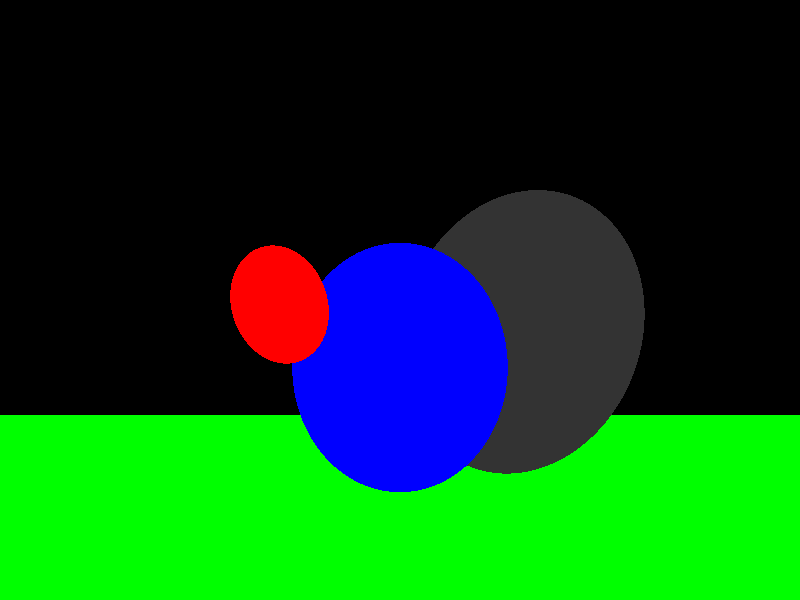
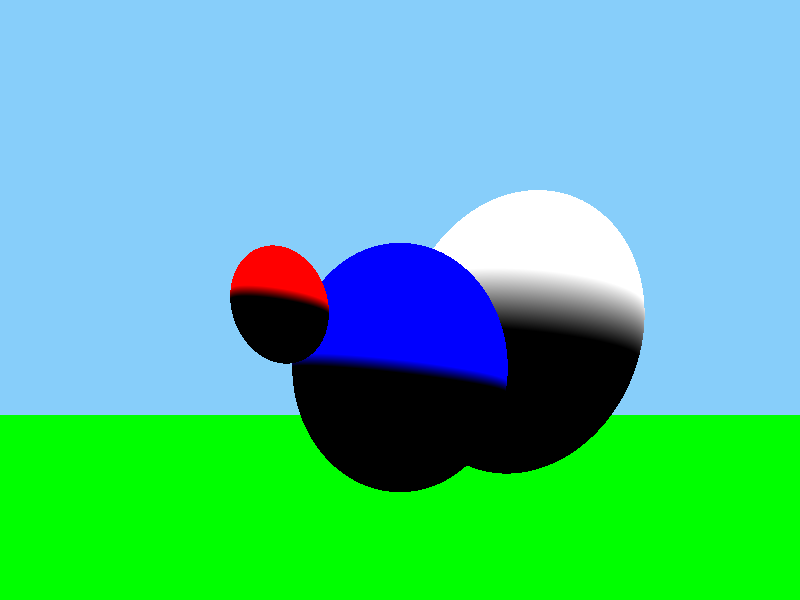
Added simple shadows

diff --git a/src/scene/renderer.rs b/src/scene/renderer.rs
@@ -1,6 +1,6 @@
-use super::super::scene::{Camera, Document};
+use super::super::scene::{Camera, Document, SceneObject, Color};
 use super::super::geometry::{Ray, Vector3};
-use super::super::traits::{RayCast, RayIntersectionResult};
+use super::super::traits::{RayCast, RayIntersectionResult, RayIntersection};
 use image::{DynamicImage, Rgba, GenericImage};
 
 #[derive(Debug)]
@@ -32,12 +32,15 @@ impl Renderer {
 
         // Lets do this real slow
         let mut image = DynamicImage::new_rgb8(self.width, self.height);
-        let black = image::Rgba([0, 0, 0, 0]);
-        let red = image::Rgba([0, 254, 0, 0]);
+        let black = image::Rgba([135, 206, 250, 0]);
 
         let pixel_scale = self.pixel_scale();
         let aspect_ratio = self.aspect_ratio();
         let camera_origin = camera.get_origin();
+
+        let direction_to_light = Vector3::new_from_values(-0.1, 0.0, -1.0);
+
+        let mut closest_scene_object: &SceneObject = &SceneObject::new();
 
         for x in 0..self.width {
             for y in 0..self.height {
@@ -55,23 +58,38 @@ impl Renderer {
                 let ray = Ray::new_from_vectors(&camera_origin, &direction);
 
                 // iterate over all document objects and intersect
-                image.put_pixel(x, y, black);
                 let mut distance_to_camera = 1000000.0_f64;
+                let mut object_found = false;
+                let mut color = Color::black();
                 for object_reference in document.object_table.objects.iter() {
                     match object_reference.object.intersect_ray(&ray) {
                         RayIntersectionResult::None => (),
-                        RayIntersectionResult::Some(v_int) => {
+                        RayIntersectionResult::Some(int) => {
                             // test if closest to camera
-                            let distance = v_int.distance_to_squared(&camera_origin);
+                            let distance = int.point.distance_to_squared(&camera_origin);
                             if distance < distance_to_camera {
                                 distance_to_camera = distance;
-                                let color = &object_reference.material.color;
-                                let color_rgba = image::Rgba([(color.red * 255.0) as u8, (color.green * 255.0) as u8, (color.blue * 255.0) as u8, 0]);
-                                image.put_pixel(x, y, color_rgba)
+                                closest_scene_object = object_reference;
+                                object_found = true;
+
+                                let intensity = document.light_table.get_intensity(0);
+                                let light_power = (int.normal.dot_product(&(direction_to_light * -1.0))).max(0.0) * intensity;
+                                let light_reflected = closest_scene_object.material.albedo / std::f64::consts::PI;
+                                color = &(&(&closest_scene_object.material.color * document.light_table.get_color(0)) * light_power) * light_reflected;
+                                color = color.clamp();
                             }
                         }
                     }
                 }
+
+                if object_found {
+                    let color_rgba = image::Rgba([(color.red * 255.0) as u8, (color.green * 255.0) as u8, (color.blue * 255.0) as u8, 0]);
+                    image.put_pixel(x, y, color_rgba)
+                }
+                else {
+                    image.put_pixel(x, y, black);
+                }
+
             }
         }
 

diff --git a/src/scene/document.rs b/src/scene/document.rs
@@ -60,6 +60,20 @@ impl LightTable {
     pub fn push_light(&mut self, light: Light) {
         self.lights.push(light)
     }
+
+    pub fn get_intensity(&self, index: usize) -> f64 {
+        match &self.lights[index] {
+            Light::Directional(l) => l.intensity,
+            Light::Point(l) => l.intensity
+        }
+    }
+
+    pub fn get_color(&self, index: usize) -> &Color {
+        match &self.lights[index] {
+            Light::Directional(l) => &l.color,
+            Light::Point(l) => &l.color,
+        }
+    }
 }
 
 pub struct Document {
@@ -75,16 +89,16 @@ impl Document {
         object_table.push_object(SceneObject::new_from_object(Box::new(sphere)));
 
         let sphere1 = Sphere::new_from_values(&Vector3::new_from_values(-0.5, 2.5, 1.0), 0.2);
-        let material = Material{color: Color::red()};
+        let material = Material{color: Color::red(), albedo: 20.0};
         object_table.push_object(SceneObject::new_with_material(Box::new(sphere1), material));
 
         let sphere2 = Sphere::new_from_values(&Vector3::new_from_values(0.0, 3.75, 0.8), 0.7);
-        let material = Material{color: Color::blue()};
+        let material = Material{color: Color::blue(), albedo: 40.0};
         object_table.push_object(SceneObject::new_with_material(Box::new(sphere2), material));
 
         let mut plane = Plane::world_xy();
-        plane.origin = Vector3::new_from_values(0.0, 0.0, 0.0);
-        let plane_material = Material{color: Color::green()};
+        plane.origin = Vector3::new_from_values(0.0, 0.0, 0.1);
+        let plane_material = Material{color: Color::green(), albedo: 80.0};
         object_table.push_object(SceneObject::new_with_material(Box::new(plane), plane_material));
 
         let camera = Camera::new_from_position_and_target(&Vector3::new_from_values(0.0, 0.0, 0.6), &Vector3::new_from_values(0.0, 0.6, 0.3));

diff --git a/src/geometry/sphere.rs b/src/geometry/sphere.rs
@@ -1,5 +1,5 @@
 use super::super::geometry::{Vector3, Ray};
-use super::super::traits::{RayCast, RayIntersectionResult};
+use super::super::traits::{RayCast, RayIntersectionResult, RayIntersection};
 use super::super::scene::{Color};
 use std::cmp::Ordering;
 
@@ -26,6 +26,10 @@ impl Sphere {
             color: Color::red()
         }
     }
+
+    pub fn normal_at(&self, vector: &Vector3) -> Vector3 {
+        (vector - &self.origin).as_normalized()
+    }
 }
 
 impl RayCast for Sphere {
@@ -37,11 +41,16 @@ impl RayCast for Sphere {
 
         match distance_to_ray.partial_cmp(&self.radius).expect("No NAN please :/") {
             Ordering::Greater => RayIntersectionResult::None,
-            Ordering::Equal => RayIntersectionResult::Some(origin_projected),
+            Ordering::Equal =>{
+                let ray_int = RayIntersection::new_from_point_and_normal(&origin_projected, &self.normal_at(&origin_projected));
+                RayIntersectionResult::Some(ray_int)
+            },
             Ordering::Less => {
                 let len_ray_origin_to_intersection = origin_projected.distance_to(&ray.origin) - (self.radius * self.radius - distance_to_ray * distance_to_ray).sqrt();
                 println!("len_ray_to_int is: {}", len_ray_origin_to_intersection);
-                RayIntersectionResult::Some(ray.vec_at_length(len_ray_origin_to_intersection))
+                let int = ray.vec_at_length(len_ray_origin_to_intersection);
+                let ray_int = RayIntersection::new_from_point_and_normal(&int, &self.normal_at(&int));
+                RayIntersectionResult::Some(ray_int)
             }
         }
     }

diff --git a/src/scene/color.rs b/src/scene/color.rs
@@ -1,3 +1,4 @@
+use std::ops;
 
 // TODO: This should rather be a material struct
 #[derive(Debug)]
@@ -8,6 +9,11 @@ pub struct Color {
 }
 
 impl Color {
+
+    pub const fn black() -> Color {
+        Color {red: 0.0, green: 0.0, blue: 0.0}
+    }
+
     pub const fn red() -> Color {
         Color {red: 1.0, green: 0.0, blue: 0.0}
     }
@@ -18,5 +24,38 @@ impl Color {
 
     pub const fn green() -> Color {
         Color {red: 0.0, green: 1.0, blue: 0.0}
+    }
+
+    pub fn clamp(&self) -> Color {
+        Color {
+            red: self.red.min(1.0).max(0.0),
+            blue: self.blue.min(1.0).max(0.0),
+            green: self.green.min(1.0).max(0.0),
+        }
+    }
+}
+
+
+impl ops::Mul<&Color> for &Color {
+    type Output = Color;
+
+    fn mul(self, other: &Color) -> Color {
+        Color {
+            red: self.red * other.red,
+            green: self.green * other.green,
+            blue: self.blue * other.blue,
+        }
+    }
+}
+
+impl ops::Mul<f64> for &Color {
+    type Output = Color;
+
+    fn mul(self, rhs: f64) -> Color {
+        Color {
+            red: self.red * rhs,
+            green: self.green * rhs,
+            blue: self.blue * rhs,
+        }
     }
 }

diff --git a/src/tests/mod.rs b/src/tests/mod.rs
@@ -102,10 +102,22 @@ mod plane_tests {
         // Assert
         match int {
             RayIntersectionResult::None => panic!("No intersection found!"),
-            RayIntersectionResult::Some(v_int) => {
-                assert_eq!(v_int, Vector3::new_from_values(0.0, 0.0, -5.0))
+            RayIntersectionResult::Some(int) => {
+                assert_eq!(int.point, Vector3::new_from_values(0.0, 0.0, -5.0))
             }
         }
+    }
+
+    #[test]
+    fn test_plane_normal() {
+        // Arrange
+        let plane = Plane::world_xy();
+
+        // Act
+        let normal = plane.normal();
+
+        // Assert
+        assert_eq!(normal, Vector3::new_from_values(0.0, 0.0, 1.0))
     }
 }
 
@@ -133,7 +145,7 @@ mod sphere_tests {
         }
         match intersecting_int {
             RayIntersectionResult::None => assert!(false),
-            RayIntersectionResult::Some(v) => assert_eq!(v, Vector3::new_from_values(2.0, 1.0, 1.0))
+            RayIntersectionResult::Some(int) => assert_eq!(int.point, Vector3::new_from_values(2.0, 1.0, 1.0))
         }
 
     }

diff --git a/src/geometry/plane.rs b/src/geometry/plane.rs
@@ -1,5 +1,5 @@
 use super::{Vector3, Ray};
-use super::super::traits::{RayCast, RayIntersectionResult};
+use super::super::traits::{RayCast, RayIntersectionResult, RayIntersection};
 use std::cmp::Ordering;
 
 #[derive(Debug)]
@@ -33,7 +33,7 @@ impl RayCast for Plane {
 
         match t.partial_cmp(&0.0_f64).expect("No NAN please :/") {
             Ordering::Less => RayIntersectionResult::None, // intersection point lies behind ray origin
-            _ => RayIntersectionResult::Some(ray.vec_at_length(t))
+            _ => RayIntersectionResult::Some(RayIntersection::new_from_point_and_normal(&ray.vec_at_length(t), &normal))
         }
     }
 }

diff --git a/src/scene/scene_object.rs b/src/scene/scene_object.rs
@@ -1,5 +1,6 @@
 use super::{Material, Color};
 use super::super::traits::{RayCast};
+use super::super::geometry::{Plane};
 
 pub struct SceneObject {
     pub object: Box<dyn RayCast>,
@@ -7,6 +8,14 @@ pub struct SceneObject {
 }
 
 impl SceneObject {
+
+    pub fn new() -> SceneObject {
+        SceneObject {
+            object: Box::new(Plane::world_xy()),
+            material: Material::default()
+        }
+    }
+
     pub fn new_from_object(object: Box<RayCast>) -> SceneObject {
         SceneObject {
             object: object,

diff --git a/src/traits/mod.rs b/src/traits/mod.rs
@@ -1,8 +1,22 @@
 use super::geometry::{Vector3, Ray};
 
+pub struct RayIntersection {
+    pub point: Vector3,
+    pub normal: Vector3,
+}
+
+impl RayIntersection {
+    pub fn new_from_point_and_normal(point: &Vector3, normal: &Vector3) -> RayIntersection {
+        RayIntersection {
+            point: *point,
+            normal: *normal
+        }
+    }
+}
+
 pub enum RayIntersectionResult {
     None,
-    Some(Vector3)
+    Some(RayIntersection)
 }
 
 pub trait RayCast {

diff --git a/src/scene/lights.rs b/src/scene/lights.rs
@@ -17,11 +17,12 @@ impl DirectionalLight {
         DirectionalLight {
             direction: Vector3::z_axis() * -1.0,
             color: Color{red: 0.9, green: 0.9, blue: 0.9},
-            intensity: 0.9
+            intensity: 1.0
         }
     }
 }
 
 pub struct PointLight {
-
+    pub color: Color,
+    pub intensity: f64
 }

diff --git a/src/scene/material.rs b/src/scene/material.rs
@@ -3,6 +3,7 @@ use super::Color;
 #[derive(Debug)]
 pub struct Material {
     pub color: Color,
+    pub albedo: f64,
 }
 
 impl Material {
@@ -12,7 +13,8 @@ impl Material {
                 red: 0.2,
                 green: 0.2,
                 blue: 0.2
-            }
+            },
+            albedo: 50.0
         }
     }
 }

diff --git a/src/scene/mod.rs b/src/scene/mod.rs
@@ -20,3 +20,6 @@ mod material;
 
 pub use self::scene_object::SceneObject;
 mod scene_object;
+
+pub use self::lights::{Light, DirectionalLight, PointLight};
+mod lights;
